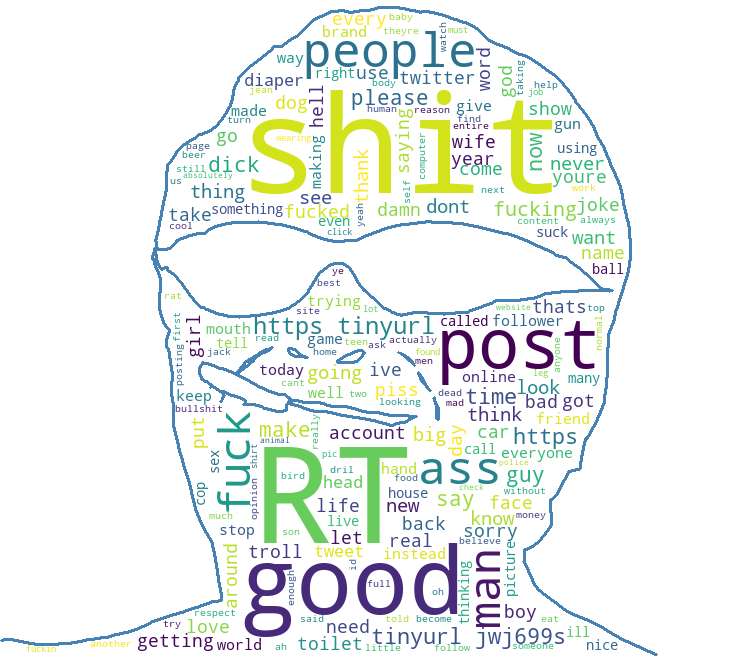
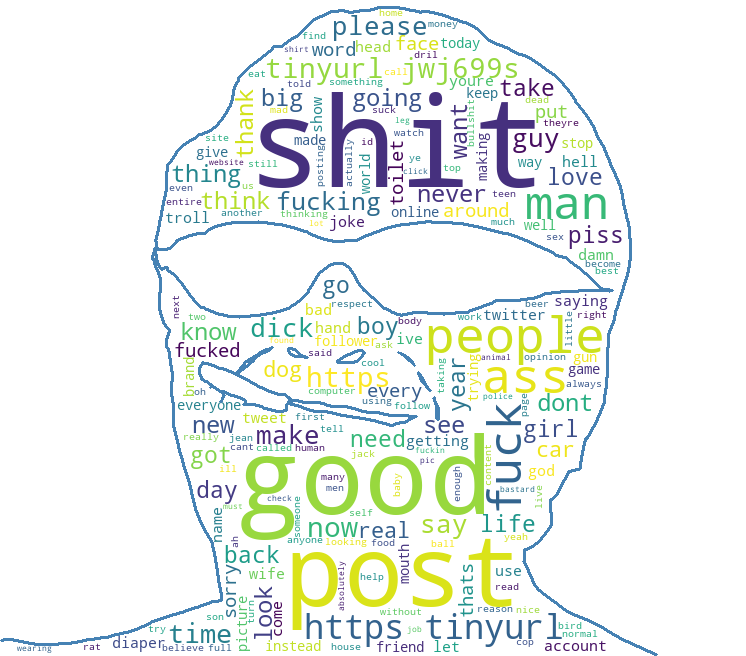
Added RT as a stopword

Changed region(s): [[0.1233, 0.4268, 0.8324, 1.0], [0.2158, 0.0, 0.8324, 0.4268], [0.0308, 0.9756, 0.0925, 1.0]]

diff --git a/cloud.py b/cloud.py
@@ -14,6 +14,7 @@ stopwords.add("one")
 stopwords.add("will")
 stopwords.add("co")
 stopwords.add("im")
+stopwords.add("RT")
 
 
 wc = WordCloud(stopwords=stopwords)

diff --git a/cloud_masked.py b/cloud_masked.py
@@ -19,6 +19,7 @@ stopwords.add("one")
 stopwords.add("will")
 stopwords.add("co")
 stopwords.add("im")
+stopwords.add("RT")
 
 
 wc = WordCloud(
